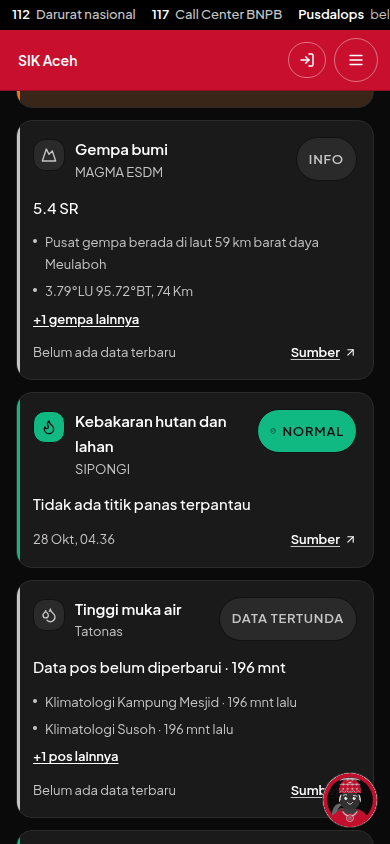
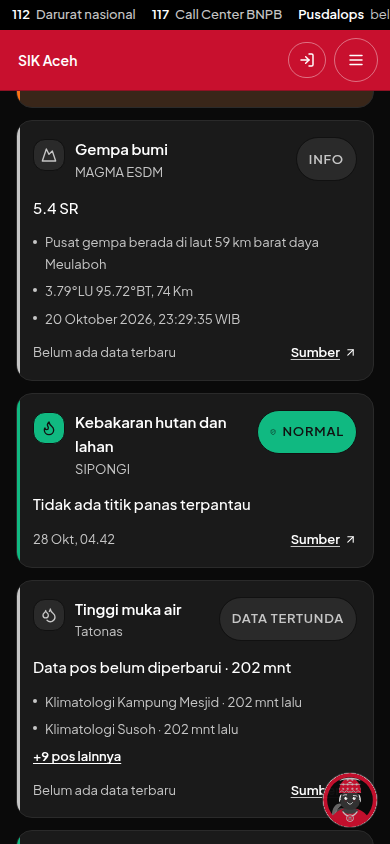
FE-75: record the Gempa card without an overflow row
The 390 card shows the single event's time line. Tatonas reads +9 pos lainnya from three highlights plus extra_count 8.

diff --git a/docs/pengembangan/jurnal/FE-75.md b/docs/pengembangan/jurnal/FE-75.md
@@ -75,7 +75,7 @@ Butir 3. Laci 390: label x28, sub-baris x44, tinggi 44, `1px solid rgba(255, 255
 
 Butir 4. Panel top 104. Header `[data-sitenav]` bottom 86. Kicker top 117. Teks memuat `R3P KABUPATEN/KOTA`.
 
-Butir 5 dan 6. Kartu yang basi menulis `Belum ada data terbaru`. Di 390, kartu MAGMA (`data-peringatan=magma`) menulis `+1 gempa lainnya`. Tatonas menulis `+1 pos lainnya`. Angka 1 adalah sisa baris yang ada, bukan angka karangan. Tangkapan `gempa-card-390.png`.
+Butir 5 dan 6. Kartu yang basi menulis `Belum ada data terbaru`. Di 390, kartu MAGMA menampilkan tiga field satu event (`wilayah`, `3.79°LU 95.72°BT, 74 Km`, `20 Oktober 2026, 23:29:35 WIB`) dan tidak menulis baris sisa. "+1" yang lama adalah field `waktu_kejadian` yang terpotong batas dua baris, bukan gempa kedua. Tatonas menulis `+9 pos lainnya`: 3 highlight, 2 terlihat, `extra_count` 8. `station_count` 11. Tangkapan `gempa-card-390.png`.
 
 Butir 7. Halaman meminta persis kunci URL.
 
